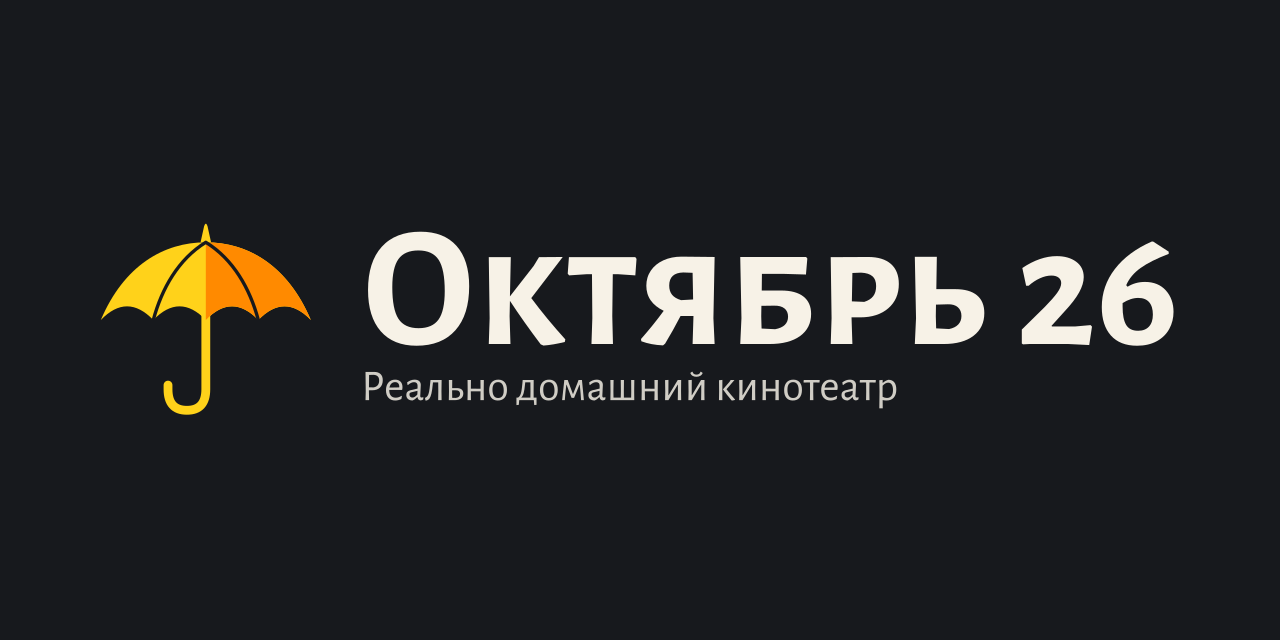
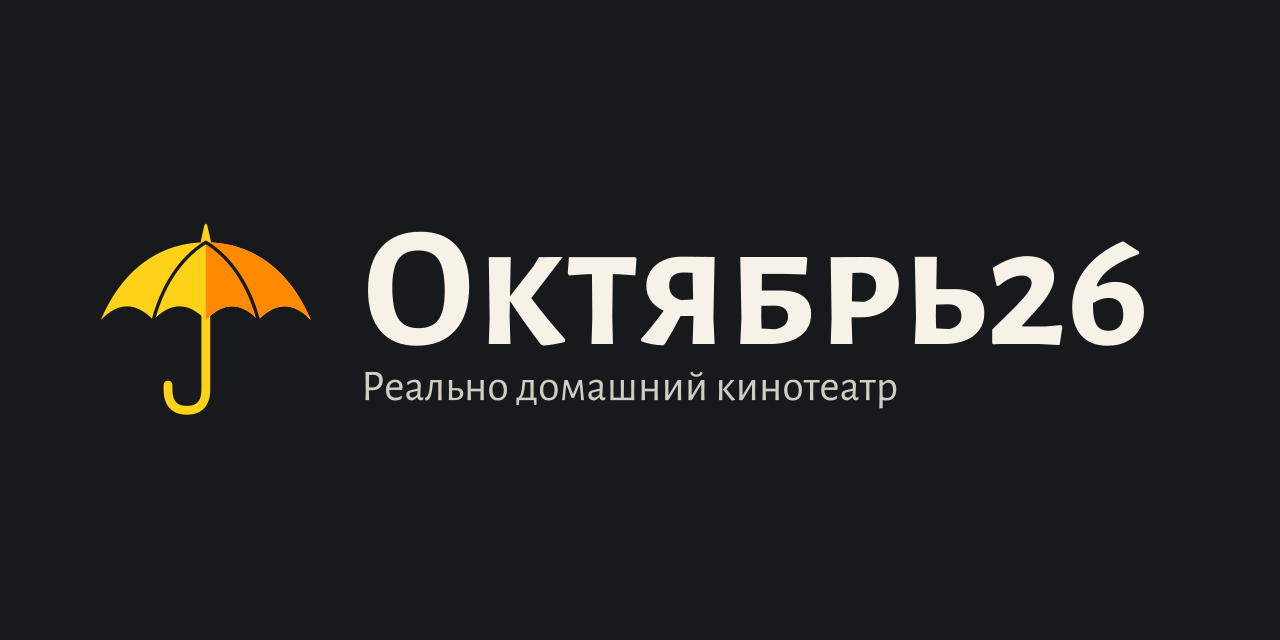
Обновить витрину (october26-sources 1b704fd)

Changed region(s): [[0.75, 0.375, 0.9375, 0.5625]]

diff --git a/docs/router.md b/docs/router.md
@@ -1,10 +1,10 @@
-# Октябрь 26 на роутере Netcraze Ultra NC-1812
+# Октябрь26 на роутере Netcraze Ultra NC-1812
 
 Займёт около 20 минут. Понадобятся компьютер с Windows в домашней сети и подключённые к роутеру SSD и HDD.
 
 | Диск | Что на нём будет |
 |---|---|
-| SSD 120 ГБ | Entware, программа Октябрь 26, база (прогресс, списки, история) и постеры |
+| SSD 120 ГБ | Entware, программа Октябрь26, база (прогресс, списки, история) и постеры |
 | HDD 1 ТБ | Папка `Kinodom` с фильмами. Остальные ваши файлы на нём не трогаются |
 
 > ⚠ На шаге 2 **SSD будет полностью очищен**. Если на нём есть нужные файлы, сначала скопируйте их.
@@ -35,27 +35,27 @@
 4. В веб-интерфейсе откройте раздел **OPKG** (меню «Управление» или «Приложения»). В поле **Накопитель** выберите раздел SSD и нажмите **Сохранить**.
 5. Подождите 2–5 минут. Проверить можно в **Диагностика → Системный журнал**. Установка закончена, когда в журнале появится строка «Установка системы пакетов "Entware" завершена!».
 
-## 4. Установка «Октябрь 26»
+## 4. Установка «Октябрь26»
 
 1. Дважды щёлкните **`Установить на роутер.cmd`** в этой папке.
 2. На запрос пароля введите пароль Entware: по умолчанию `keenetic`. Символы при вводе не отображаются.
-3. Подождите около минуты, пока появится «Готово!» и адрес «Октябрь 26».
+3. Подождите около минуты, пока появится «Готово!» и адрес «Октябрь26».
 
 Скрипт сам:
 - выбирает HDD для фильмов (самый большой диск, кроме SSD) и создаёт на нём папку `Kinodom`;
 - ставит лимит кэша: 70% свободного места, но не больше 600 ГБ;
 - прописывает ключ Кинопоиска;
 - включает автозапуск после перезагрузки роутера;
-- перезапускает Октябрь 26, если тот упадёт.
+- перезапускает Октябрь26, если тот упадёт.
 
 ## 5. Смотреть
 
-- **iPad:** откройте в Safari http://192.168.1.1:8095. Затем «Поделиться» → **На экран «Домой»**, и Октябрь 26 откроется как отдельное приложение.
+- **iPad:** откройте в Safari http://192.168.1.1:8095. Затем «Поделиться» → **На экран «Домой»**, и Октябрь26 откроется как отдельное приложение.
 - **Компьютер:** тот же адрес в любом браузере.
 - **Звук в браузерах ПК, iOS и Android:** хаб перепаковывает видео в HLS и преобразует звук AC3/E-AC3/DTS в AAC stereo. FFmpeg и FFprobe устанавливаются автоматически вместе с комплектом. Видео не перекодируется: H.264/AVC играет в любом браузере, HEVC (H.265) — там, где браузер декодирует его сам (Safari, Chrome и Edge с аппаратным декодированием HEVC). AV1, Dolby Vision профиля 5 и старые видеокодеки открывайте во встроенном плеере Android TV либо выбирайте другую раздачу.
 - Одновременно хаб готовит до двух браузерных потоков. Перемотка за пределы текущего буфера запускает поток с новой позиции. Временные сегменты хранятся на HDD в `.browser-streams`; при закрытии просмотра они удаляются, забытые сессии истекают через 90 секунд без запросов.
 - Хранение раздач использует проверенные торрент-хеши кусков, а не размер файла. Старые `.part` автоматически переименовываются с сохранением данных. Если раньше файл оказался повреждён, `POST /api/torrents/<hash>/verify` с телом `{"file": 1}` перепроверит только выбранный файл; нужные для просмотра недостающие куски скачаются заново.
-- **Телевизор:** приложение Октябрь 26 для Android TV. В нём есть звук AC3 и DTS, которого нет в браузере телевизора, и выбор озвучки и субтитров прямо во время просмотра. Приложение работает само по себе: ищет и качает фильмы на телевизоре, роутер ему не нужен. Хранить фильмы оно может на HDD роутера: в приложении **Настройки → Хранилище фильмов → Сетевые диски → Найти в сети** (нужен компонент «Сервер SMB» из шага 1).
+- **Телевизор:** приложение Октябрь26 для Android TV. В нём есть звук AC3 и DTS, которого нет в браузере телевизора, и выбор озвучки и субтитров прямо во время просмотра. Приложение работает само по себе: ищет и качает фильмы на телевизоре, роутер ему не нужен. Хранить фильмы оно может на HDD роутера: в приложении **Настройки → Хранилище фильмов → Сетевые диски → Найти в сети** (нужен компонент «Сервер SMB» из шага 1).
 
 ### Приложение на телевизор (один раз)
 
@@ -66,21 +66,21 @@
    - **флешка:** скопируйте `october26-tv.apk` на флешку, вставьте в телевизор и откройте файл в файловом менеджере (например, File Commander из Google Play);
    - **браузер на телевизоре**, если он установлен: откройте http://192.168.1.1:8095/tv.apk;
    - **приложение Send Files to TV** на телефоне и телевизоре.
-3. Нажмите **Установить**. Октябрь 26 появится в списке приложений.
+3. Нажмите **Установить**. Октябрь26 появится в списке приложений.
 
 Приложение работает на Android 11 и новее, в том числе на телефонах и планшетах. Дальше обновлять его вручную не нужно: оно проверяет новые версии на странице релизов GitHub при запуске и предлагает поставить их одним нажатием.
 
 ## Диск для фильмов и профили
 
-**Другой диск.** В **Настройки → Хранилище фильмов** выберите диск, который видит роутер: USB-диск или сетевой. Можно указать и любую папку. Октябрь 26 перезапустится примерно за 10–20 секунд. Уже скачанное остаётся на прежнем диске. То, что хранится постоянно (скачано целиком или кнопкой «Скачать»), Октябрь 26 докачает на новый диск, остальное скачается по мере просмотра. Диск с Entware тоже есть в списке, но фильмы на нём лучше не держать: там база и программа.
+**Другой диск.** В **Настройки → Хранилище фильмов** выберите диск, который видит роутер: USB-диск или сетевой. Можно указать и любую папку. Октябрь26 перезапустится примерно за 10–20 секунд. Уже скачанное остаётся на прежнем диске. То, что хранится постоянно (скачано целиком или кнопкой «Скачать»), Октябрь26 докачает на новый диск, остальное скачается по мере просмотра. Диск с Entware тоже есть в списке, но фильмы на нём лучше не держать: там база и программа.
 
-**Профили устройств.** Прогресс просмотра, «Позже», «Избранное» и история у каждого устройства свои: телефон, планшет и телевизор не мешают друг другу. Пароля и регистрации нет: профиль создаётся в браузере при первом открытии. Если очистить данные браузера, профиль создастся заново. Прежнюю общую историю получает первое устройство, которое откроет Октябрь 26 после обновления.
+**Профили устройств.** Прогресс просмотра, «Позже», «Избранное» и история у каждого устройства свои: телефон, планшет и телевизор не мешают друг другу. Пароля и регистрации нет: профиль создаётся в браузере при первом открытии. Если очистить данные браузера, профиль создастся заново. Прежнюю общую историю получает первое устройство, которое откроет Октябрь26 после обновления.
 
 ## Обслуживание
 
-**Обновление.** В **Настройки → Обновления** можно проверить версию и установить её. Проверка работает автоматически; автоустановка изначально выключена и включается в том же разделе. Во время просмотра роутер дождётся окончания воспроизведения. Перезапускается только Октябрь 26, роутер не перезагружается. Настройки, прогресс и фильмы сохранятся.
+**Обновление.** В **Настройки → Обновления** можно проверить версию и установить её. Проверка работает автоматически; автоустановка изначально выключена и включается в том же разделе. Во время просмотра роутер дождётся окончания воспроизведения. Перезапускается только Октябрь26, роутер не перезагружается. Настройки, прогресс и фильмы сохранятся.
 
-**Версия.** Установленная версия написана в **Настройки → Обновления**: строкой «Установлена версия X» или, если известна более новая версия, строкой «X → Y», где X — установленная. Та же версия есть в `http://192.168.1.1:8095/api/status` в поле `version`. Шрифт Rubik входит в версию 0.4.0.0 и новее (в 0.3.0.1 его нет). Если у вас старее 0.4.0.0, обновите Октябрь 26 способом из абзаца выше и откройте страницу заново.
+**Версия.** Установленная версия написана в **Настройки → Обновления**: строкой «Установлена версия X» или, если известна более новая версия, строкой «X → Y», где X — установленная. Та же версия есть в `http://192.168.1.1:8095/api/status` в поле `version`. Шрифт Rubik входит в версию 0.4.0.0 и новее (в 0.3.0.1 его нет). Если у вас старее 0.4.0.0, обновите Октябрь26 способом из абзаца выше и откройте страницу заново.
 
 **Проверка Rubik.** Если шрифт не изменился, сначала сверьте установленную версию с порогом выше. Затем на компьютере выполните (подставьте адрес своего роутера):
 
@@ -114,7 +114,7 @@ rm -rf /opt/kinodom /opt/etc/init.d/S99kinodom /opt/var/log/kinodom.log*
 Готовый установщик сейчас рассчитан на Netcraze/Keenetic с ARM64 и Entware.
 Наличие Linux или USB само по себе не означает совместимость с этим архивом.
 
-| Платформа | Что потребуется | Статус Октябрь 26 |
+| Платформа | Что потребуется | Статус Октябрь26 |
 |---|---|---|
 | Другие ARM64-модели Keenetic/Netcraze с Entware | Проверить архитектуру, доступную RAM, ядро, диск и пакеты FFmpeg | Требуется проверка конкретной модели |
 | OpenWrt на ARM64 или x86-64 | Отдельная упаковка и автозапуск procd, пути монтирования и зависимости | Кандидат на адаптацию; готового установщика нет |
@@ -135,8 +135,8 @@ rm -rf /opt/kinodom /opt/etc/init.d/S99kinodom /opt/var/log/kinodom.log*
 |---|---|
 | «Роутер не отвечает по SSH» | Entware не установлен или установка ещё идёт. Проверьте шаг 3 и системный журнал |
 | «Permission denied» при вводе пароля | Неверный пароль Entware. По умолчанию `keenetic` |
-| «Октябрь 26 не запустился» | Скрипт покажет последние строки журнала. Пришлите их мне |
-| В журнале «диск для фильмов не подключён» | HDD не смонтирован. Проверьте «Хранилища и устройства». Октябрь 26 сам запустится через 10 секунд после появления диска |
+| «Октябрь26 не запустился» | Скрипт покажет последние строки журнала. Пришлите их мне |
+| В журнале «диск для фильмов не подключён» | HDD не смонтирован. Проверьте «Хранилища и устройства». Октябрь26 сам запустится через 10 секунд после появления диска |
 | Медленно качает | Необязательно: в **Сетевые правила → Межсетевой экран** для интернет-подключения разрешите входящие TCP и UDP на порт 50777 |
 
 `october26-router.tar` содержит ваш ключ Кинопоиска, поэтому не выкладывайте эту папку в открытый доступ.

diff --git a/docs/desktop.md b/docs/desktop.md
@@ -1,16 +1,16 @@
-# Октябрь 26 на компьютере с Windows
+# Октябрь26 на компьютере с Windows
 
 Смотрите фильмы на этом компьютере и с телефона, планшета или телевизора в вашей домашней сети. Аккаунта и регистрации нет.
 
 ## 1. Запуск
 
-1. Распакуйте архив в любую папку, например `Документы\Октябрь 26`.
+1. Распакуйте архив в любую папку, например `Документы\Октябрь26`.
 2. Дважды щёлкните **`october26.exe`**.
    - Windows может написать «защитила ваш компьютер»: нажмите **Подробнее → Выполнить в любом случае**. Программа не подписана, поэтому Windows так реагирует.
-   - Брандмауэр спросит доступ к сети: разрешите для **частных сетей**. Без этого другие устройства не увидят Октябрь 26.
+   - Брандмауэр спросит доступ к сети: разрешите для **частных сетей**. Без этого другие устройства не увидят Октябрь26.
 3. Откройте в браузере http://localhost:8095.
 
-Окно с журналом должно оставаться открытым: закроете его — Октябрь 26 остановится.
+Окно с журналом должно оставаться открытым: закроете его — Октябрь26 остановится.
 
 ## 2. Смотреть с других устройств
 
@@ -60,14 +60,14 @@ UDP** относится к BitTorrent; для открытия интерфей
 
 1. **Настройки → Хранилище фильмов**.
 2. Выберите диск из списка или нажмите **Выбрать другую папку…**.
-3. Для сетевого диска нажмите **Найти в сети** в блоке «Сетевые диски»: Октябрь 26 сам найдёт в домашней сети роутер с USB-диском, NAS или другой компьютер и покажет их общие папки. Если гостем не пускают, введите логин и пароль. Подключать сетевой диск в Windows для этого не нужно. Путь можно вписать и вручную: `\\nas\video\Kinodom` или `smb://nas/video/Kinodom`.
-4. Нажмите **Сюда** или **Хранить фильмы здесь**. Октябрь 26 перезапустится.
+3. Для сетевого диска нажмите **Найти в сети** в блоке «Сетевые диски»: Октябрь26 сам найдёт в домашней сети роутер с USB-диском, NAS или другой компьютер и покажет их общие папки. Если гостем не пускают, введите логин и пароль. Подключать сетевой диск в Windows для этого не нужно. Путь можно вписать и вручную: `\\nas\video\Kinodom` или `smb://nas/video/Kinodom`.
+4. Нажмите **Сюда** или **Хранить фильмы здесь**. Октябрь26 перезапустится.
 
-Уже скачанное остаётся в прежней папке. То, что хранится постоянно (скачано целиком или кнопкой «Скачать»), Октябрь 26 докачает в новую папку. Остальное скачается по мере просмотра.
+Уже скачанное остаётся в прежней папке. То, что хранится постоянно (скачано целиком или кнопкой «Скачать»), Октябрь26 докачает в новую папку. Остальное скачается по мере просмотра.
 
 Сетевой диск медленнее внутреннего. Для плавного просмотра нужна проводная сеть и накопитель с SMB.
 
-Если при запуске выбранный диск недоступен (NAS выключен, флешку вынули), Октябрь 26 всё равно откроется и временно будет хранить фильмы в папке `media`. Когда диск появится, Октябрь 26 сам перезапустится и вернётся к нему.
+Если при запуске выбранный диск недоступен (NAS выключен, флешку вынули), Октябрь26 всё равно откроется и временно будет хранить фильмы в папке `media`. Когда диск появится, Октябрь26 сам перезапустится и вернётся к нему.
 
 ## 4. Звук и браузер
 
@@ -83,8 +83,8 @@ FFmpeg и FFprobe уже входят в архив рядом с `october26.exe
 
 **Обновление.** Откройте **Настройки → Обновления**: здесь видны доступная версия и кнопка установки. Проверка новых версий работает автоматически; автоустановка изначально выключена и включается в том же разделе. Во время просмотра приложение дождётся окончания воспроизведения. Настройки и база сохранятся.
 
-Если приложение не может скачать релиз, установите его вручную: скачайте архив `october26-desktop-ВЕРСИЯ.zip`, закройте Октябрь 26 и скопируйте в папку программы всё содержимое архива с заменой файлов.
+Если приложение не может скачать релиз, установите его вручную: скачайте архив `october26-desktop-ВЕРСИЯ.zip`, закройте Октябрь26 и скопируйте в папку программы всё содержимое архива с заменой файлов.
 
 Если в старой версии программа называлась `kinodom.exe`, закройте её, распакуйте новый архив целиком в ту же папку с заменой файлов и запустите `october26.exe`. Старый EXE можно удалить. Файл `kinodom.json`, папки `data` и `media` сохраните.
 
-**Удаление.** Закройте Октябрь 26 и удалите папку. Фильмы на выбранном диске останутся: папку `Kinodom` удалите вручную, если она не нужна.
+**Удаление.** Закройте Октябрь26 и удалите папку. Фильмы на выбранном диске останутся: папку `Kinodom` удалите вручную, если она не нужна.

diff --git a/docs/tv.md b/docs/tv.md
@@ -1,6 +1,6 @@
 # Android TV и телефон
 
-Приложение для Android TV, Google TV и телефонов на Android 11 и новее работает самостоятельно: поиск раздач, торрент-движок и видеоплеер уже входят в APK. Устанавливать Октябрь 26 на роутер или ПК для просмотра не требуется. Нужно подключение к интернету. Для Samsung Tizen и LG webOS этот APK не подходит.
+Приложение для Android TV, Google TV и телефонов на Android 11 и новее работает самостоятельно: поиск раздач, торрент-движок и видеоплеер уже входят в APK. Устанавливать Октябрь26 на роутер или ПК для просмотра не требуется. Нужно подключение к интернету. Для Samsung Tizen и LG webOS этот APK не подходит.
 
 ## Установка
 
@@ -8,7 +8,7 @@
    [релизов](https://github.com/Dezodemius/October26/releases).
 2. Перенесите APK на устройство через флешку или Send Files to TV.
 3. Разрешите установку из выбранного файлового менеджера и откройте APK.
-4. Запустите Октябрь 26. Мастера настройки нет: сразу открывается каталог, и можно смотреть.
+4. Запустите Октябрь26. Мастера настройки нет: сразу открывается каталог, и можно смотреть.
 
 Откройте **Настройки → Обновления**, чтобы проверить версию и установить новую.
 Автоматическая загрузка изначально выключена; при её включении установку всё
@@ -46,7 +46,7 @@
 
 Для NAS, общей папки ПК или диска роутера нажмите «Найти в сети» или введите адрес
 вручную. Если гостевой доступ запрещён, введите логин и пароль общей папки. Роутер
-в этом случае предоставляет только диск по SMB; устанавливать на него Октябрь 26
+в этом случае предоставляет только диск по SMB; устанавливать на него Октябрь26
 необязательно.
 
 Накопитель используется для фильмов и кэша просмотра. Настройки, история, база и
@@ -57,7 +57,7 @@
 Локальные USB-фильмы хранятся в папке приложения. Android удаляет такие файлы
 при удалении приложения. Для независимого хранения используйте сетевую папку.
 
-Выбор папки перезапускает Октябрь 26. После этого появятся кнопки скачивания и
+Выбор папки перезапускает Октябрь26. После этого появятся кнопки скачивания и
 вкладка «Загрузки». Раздача сохранённых фильмов остаётся выключенной, пока её не
 включить в «Настройки → Помощь другим зрителям».
 

diff --git a/README.md b/README.md
@@ -1,5 +1,5 @@
 <p align="center">
-  <img src="docs/banner.png" width="1280" alt="Логотип «Октябрь 26»: жёлто-оранжевый зонт на тёмном фоне">
+  <img src="docs/banner.png" width="1280" alt="Логотип «Октябрь26»: жёлто-оранжевый зонт на тёмном фоне">
 </p>
 <p align="center">
   Реально домашний кинотеатр на телевизоре, компьютере или роутере: поиск фильмов и
@@ -27,12 +27,12 @@
 
 ## Домашний кинотеатр на ваших устройствах
 
-Октябрь 26 помогает находить фильмы и сериалы, выбирать качество и озвучку,
+Октябрь26 помогает находить фильмы и сериалы, выбирать качество и озвучку,
 смотреть до завершения загрузки и сохранять понравившееся на диск.
 История, «Продолжить просмотр», «Позже» и «Избранное» помогают вернуться к фильму.
 Цветовую тему можно подобрать под свой вкус.
 
-Приложения для Windows и Android работают самостоятельно. Роутер с Октябрём 26
+Приложения для Windows и Android работают самостоятельно. Роутер с «Октябрь26»
 может стать постоянно включённым домашним хабом. На iPhone и iPad интерфейс
 открывается в браузере через хаб на Windows или роутере.
 
@@ -46,7 +46,7 @@
 
 ## Как выглядит приложение
 
-![Главная страница «Октябрь 26»](docs/screenshot-home.png)
+![Главная страница «Октябрь26»](docs/screenshot-home.png)
 
 ## Инструкции в wiki
 
